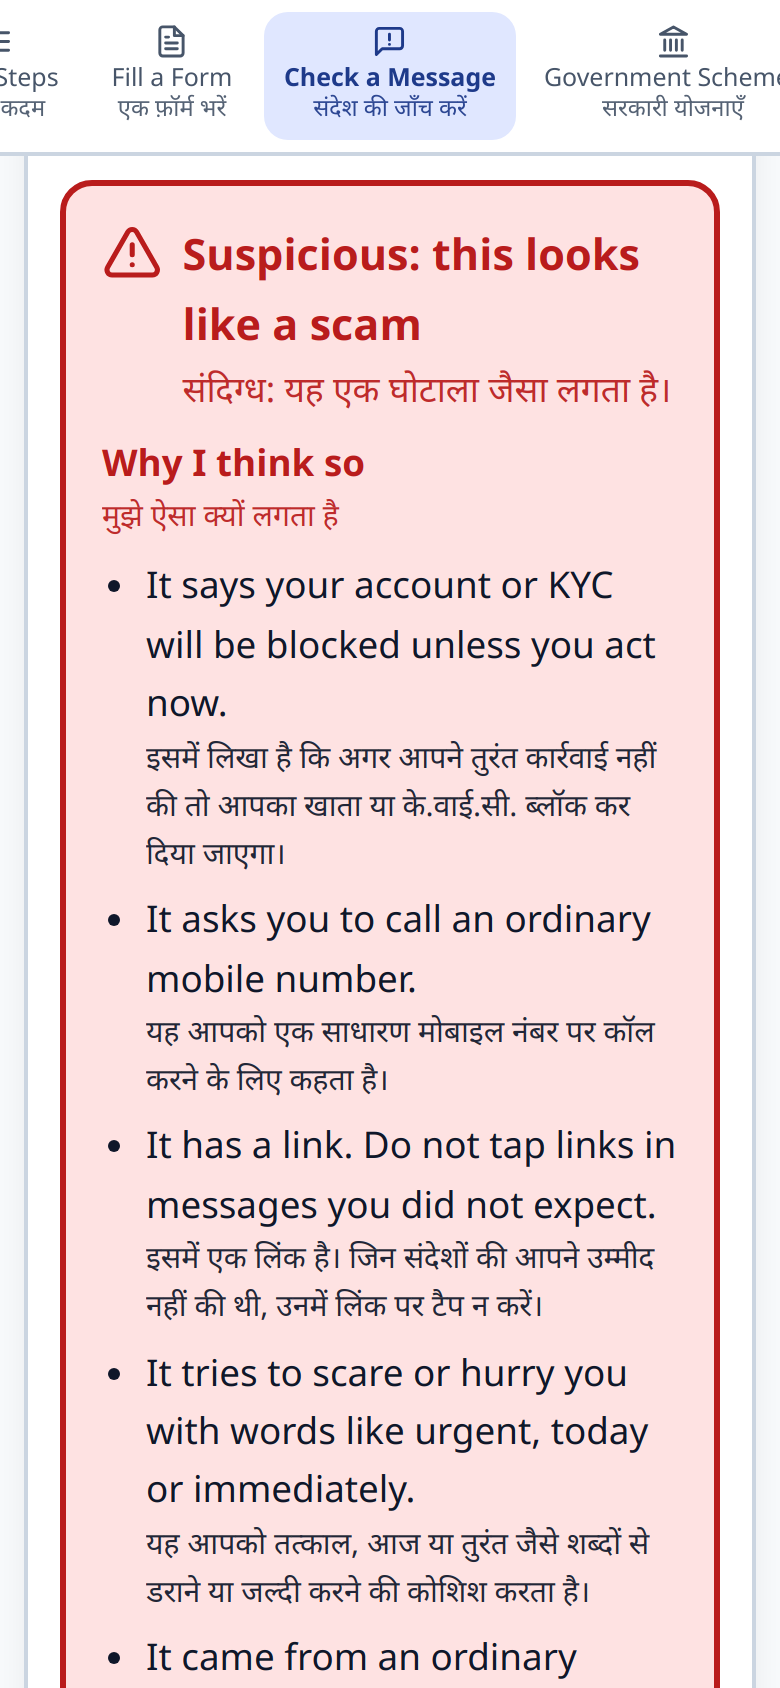
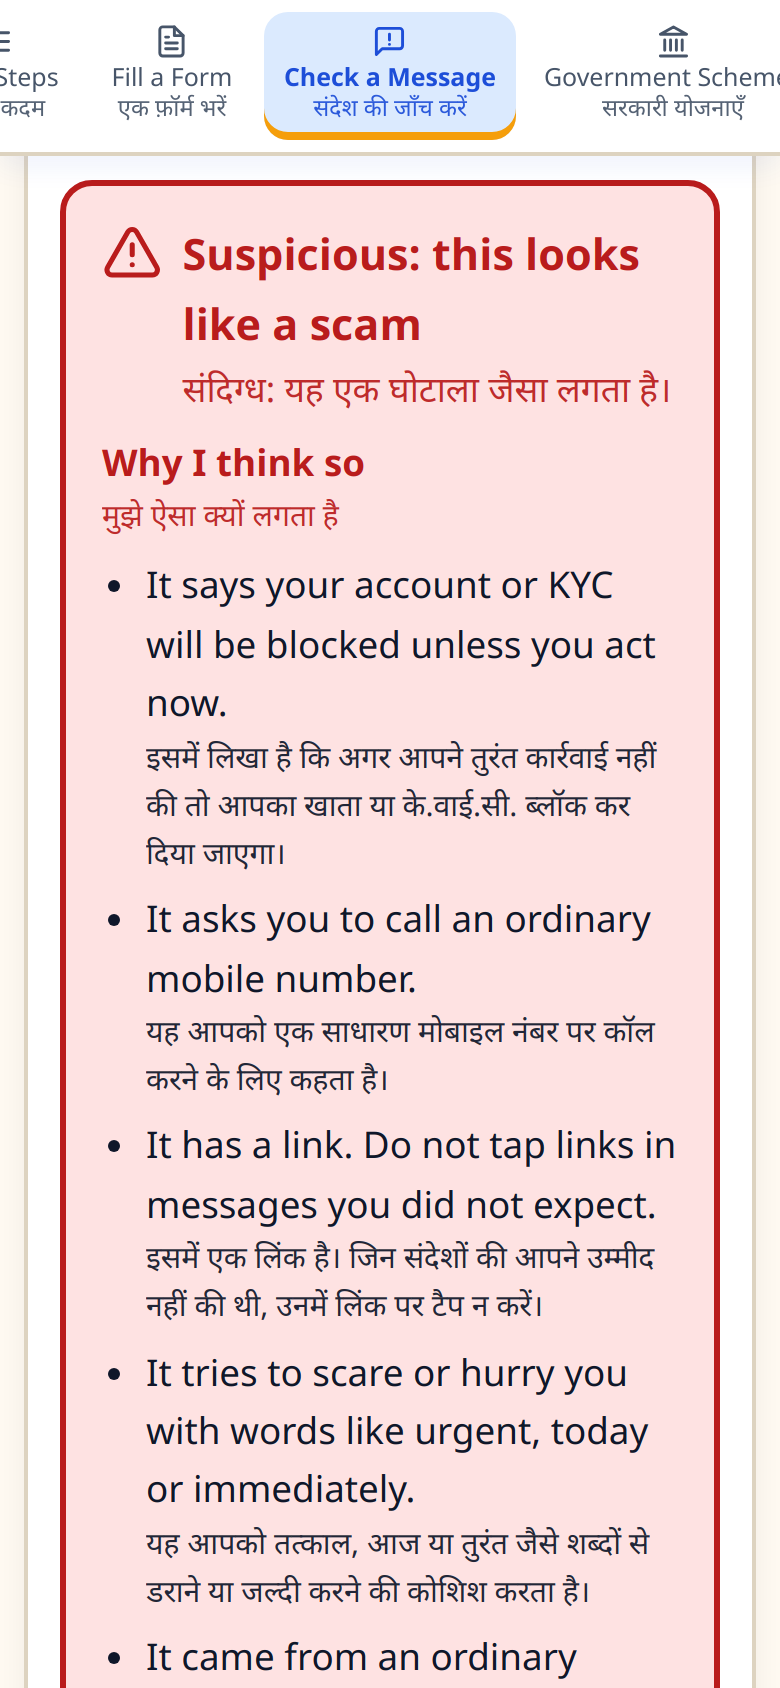
updates

Changed region(s): [[0.9538, 0.0924, 0.9846, 1.0], [0.0308, 0.0924, 0.0615, 1.0], [0.3385, 0.0, 0.6769, 0.0924]]

diff --git a/static/style.css b/static/style.css
@@ -1,7 +1,7 @@
 :root {
-  --bg: #f8fafc; --card: #ffffff; --ink: #0f172a; --muted: #475569; --line: #cbd5e1;
-  --primary: #1e3a8a; --primary-ink: #ffffff; --primary-soft: #e0e7ff;
-  --accent: #a16207; --accent-ink: #ffffff;
+  --bg: #fffaf2; --card: #ffffff; --ink: #0f172a; --muted: #475569; --line: #ddd3c0;
+  --primary: #1d4ed8; --primary-ink: #ffffff; --primary-soft: #dbeafe;
+  --accent: #b45309; --accent-ink: #1c1304; --amber: #f59e0b; --teal: #0d9488; --teal-soft: #ccfbf1;
   --ok: #166534; --ok-soft: #dcfce7; --warn: #92400e; --warn-soft: #fef3c7; --bad: #b91c1c; --bad-soft: #fee2e2;
   --top: #0f172a; --focus: #f59e0b;
   --radius: 16px;
@@ -9,14 +9,14 @@
 @media (prefers-color-scheme: dark) {
   :root {
     --bg: #0b1220; --card: #121c33; --ink: #f1f5f9; --muted: #b6c2d4; --line: #2b3a57;
-    --primary: #2563eb; --primary-soft: #1b2a52; --accent: #b45309;
+    --primary: #3b82f6; --primary-soft: #1b2a52; --accent: #fbbf24; --teal-soft: #0f3b38;
     --ok: #86efac; --ok-soft: #12351f; --warn: #fcd34d; --warn-soft: #3a2a0a; --bad: #fca5a5; --bad-soft: #3b1414;
   }
 }
 * { box-sizing: border-box; }
 html { font-size: 100%; }
 html.big1 { font-size: 112%; } html.big2 { font-size: 125%; }
-body { margin: 0; -webkit-tap-highlight-color: transparent; background: radial-gradient(900px 420px at 0% 0%, rgba(30,58,138,.10), transparent 70%), radial-gradient(800px 380px at 100% 8%, rgba(13,148,136,.10), transparent 70%), var(--bg); background-repeat: no-repeat; color: var(--ink); font: 1.15rem/1.6 "Noto Sans", "Noto Sans Devanagari", "Noto Sans Bengali", "Noto Sans Tamil", "Noto Sans Telugu", system-ui, sans-serif; padding-bottom: 90px; }
+body { margin: 0; -webkit-tap-highlight-color: transparent; background: radial-gradient(900px 420px at 0% 0%, rgba(37,99,235,.14), transparent 70%), radial-gradient(800px 380px at 100% 6%, rgba(245,158,11,.20), transparent 70%), radial-gradient(900px 500px at 50% 100%, rgba(20,184,166,.13), transparent 70%), var(--bg); background-repeat: no-repeat; color: var(--ink); font: 1.15rem/1.6 "Noto Sans", "Noto Sans Devanagari", "Noto Sans Bengali", "Noto Sans Tamil", "Noto Sans Telugu", system-ui, sans-serif; padding-bottom: 90px; }
 button, input, select, textarea { font: inherit; color: inherit; }
 button { cursor: pointer; }
 :focus-visible { outline: 4px solid var(--focus); outline-offset: 2px; }
@@ -28,28 +28,29 @@ svg.i.fill { fill: currentColor; stroke: none; }
 .sr { position: absolute; left: -9999px; }
 
 /* ---------- top bar ---------- */
-.top { background: linear-gradient(135deg, #0f172a 0%, #1e3a8a 55%, #0f766e 100%); color: #fff; padding: 12px 16px 0; padding-top: calc(12px + env(safe-area-inset-top)); }
+.top { background: linear-gradient(120deg, #1d4ed8 0%, #0e7490 55%, #047857 100%); color: #fff; padding: 12px 16px 0; padding-top: calc(12px + env(safe-area-inset-top)); }
+.top::after { content: ""; display: block; height: 6px; margin: 0 -16px; background: linear-gradient(90deg, #f59e0b 0 33.3%, #ffffff 33.3% 66.6%, #16a34a 66.6%); }
 .bar { max-width: 960px; margin: 0 auto; display: flex; align-items: center; gap: 10px; flex-wrap: wrap; }
 .brand { margin: 0; font-size: 1.6rem; line-height: 1.2; flex: 1; min-width: 180px; }
 .brand small { display: block; font-size: .8rem; font-weight: 400; opacity: .8; }
-.top select { min-height: 48px; border-radius: 12px; border: 2px solid #475569; background: #1e293b; color: #fff; padding: 0 10px; max-width: 220px; }
-.sizebtn { min-width: 48px; min-height: 48px; border-radius: 12px; border: 2px solid #475569; background: #1e293b; color: #fff; font-weight: 700; }
-.ticker { max-width: 960px; margin: 10px auto 0; display: flex; align-items: stretch; border-top: 1px solid #334155; }
+.top select { min-height: 48px; border-radius: 12px; border: 2px solid rgba(255,255,255,.55); background: #1e40af; color: #fff; padding: 0 10px; max-width: 220px; }
+.sizebtn { min-width: 48px; min-height: 48px; border-radius: 12px; border: 2px solid rgba(255,255,255,.55); background: #1e40af; color: #fff; font-weight: 700; }
+.ticker { max-width: 960px; margin: 10px auto 0; display: flex; align-items: stretch; border-top: 1px solid rgba(255,255,255,.3); }
 #rev { overflow: hidden; flex: 1; white-space: nowrap; padding: 4px 0; }
 #rev .track { display: inline-flex; animation: scroll 80s linear infinite; will-change: transform; }
 #rev:hover .track, #rev:focus-within .track, .ticker.paused .track { animation-play-state: paused; }
-#rev button { background: none; border: 0; color: #fff; font-size: 1.35rem; padding: 4px 20px; min-height: 48px; border-right: 1px solid #334155; }
+#rev button { background: none; border: 0; color: #fff; font-size: 1.35rem; padding: 4px 20px; min-height: 48px; border-right: 1px solid rgba(255,255,255,.28); }
 #rev button small { font-size: .75rem; opacity: .75; margin-left: 6px; }
-#rev button.cur { color: #fcd34d; }
-.tpause { flex: none; width: 48px; border: 0; border-left: 1px solid #334155; background: transparent; color: #fff; }
+#rev button.cur { color: #fde68a; text-shadow: 0 0 12px rgba(253,230,138,.5); }
+.tpause { flex: none; width: 48px; border: 0; border-left: 1px solid rgba(255,255,255,.28); background: transparent; color: #fff; }
 @keyframes scroll { from { transform: translateX(0); } to { transform: translateX(-50%); } }
 @media (prefers-reduced-motion: reduce) { #rev { overflow-x: auto; } #rev .track { animation: none; } .tpause { display: none; } }
 
 /* ---------- tabs ---------- */
-nav { position: sticky; top: 0; z-index: 5; background: var(--card); border-bottom: 2px solid var(--line); }
+nav { position: sticky; top: 0; z-index: 5; background: var(--card); border-bottom: 2px solid var(--line); box-shadow: 0 4px 14px rgba(29,78,216,.08); }
 #tabs { max-width: 960px; margin: 0 auto; display: flex; overflow-x: auto; padding: 6px 8px; gap: 4px; scrollbar-width: thin; }
 #tabs button { flex: none; display: flex; flex-direction: column; align-items: center; gap: 2px; min-width: 84px; min-height: 64px; padding: 6px 10px; border: 0; border-radius: 12px; background: transparent; color: var(--muted); font-size: .78rem; line-height: 1.2; text-align: center; }
-#tabs button[aria-selected=true] { background: var(--primary-soft); color: var(--primary); font-weight: 700; }
+#tabs button[aria-selected=true] { background: var(--primary-soft); color: var(--primary); font-weight: 700; box-shadow: inset 0 -4px 0 var(--amber); }
 @media (prefers-color-scheme: dark) { #tabs button[aria-selected=true] { color: #bfdbfe; } }
 #tabs .loc { font-size: .95em; }
 
@@ -61,13 +62,14 @@ section.view.on { display: block; animation: fade .25s ease; }
 @media (prefers-reduced-motion: reduce) { section.view.on { animation: none; } }
 .card { box-shadow: 0 4px 18px rgba(15,23,42,.06); background: var(--card); border: 2px solid var(--line); border-radius: var(--radius); padding: 20px; margin-bottom: 16px; }
 h2 { margin: 0 0 6px; font-size: 1.5rem; line-height: 1.3; }
+h2::after { content: ""; display: block; width: 60px; height: 4px; border-radius: 4px; margin-top: 6px; background: linear-gradient(90deg, #2563eb, #14b8a6, #f59e0b); }
 h3 { margin: 0 0 6px; font-size: 1.15rem; }
 .lead { color: var(--muted); margin: 0 0 14px; }
 
 /* ---------- buttons & inputs ---------- */
-.btn { box-shadow: 0 2px 8px rgba(30,58,138,.25); display: inline-flex; align-items: center; justify-content: center; gap: 10px; min-height: 56px; padding: 10px 22px; border-radius: 14px; border: 2px solid transparent; background: linear-gradient(135deg, #1e3a8a, #2563eb); color: var(--primary-ink); font-weight: 600; text-align: left; transition: transform .12s, filter .12s; }
+.btn { box-shadow: 0 3px 10px rgba(37,99,235,.35); display: inline-flex; align-items: center; justify-content: center; gap: 10px; min-height: 56px; padding: 10px 22px; border-radius: 14px; border: 2px solid transparent; background: linear-gradient(135deg, #1d4ed8, #2563eb 60%, #0284c7); color: var(--primary-ink); font-weight: 600; text-align: left; transition: transform .12s, filter .12s; }
 .btn:hover { filter: brightness(1.08); } .btn:active { transform: scale(.98); }
-.btn.alt { background: linear-gradient(135deg, #a16207, #b45309); box-shadow: 0 2px 8px rgba(161,98,7,.3); color: var(--accent-ink); }
+.btn.alt { background: linear-gradient(135deg, #fbbf24, #f59e0b); box-shadow: 0 3px 10px rgba(245,158,11,.45); color: #1c1304; }
 .btn.ghost { background: transparent; box-shadow: none; border-color: var(--primary); color: var(--primary); }
 @media (prefers-color-scheme: dark) { .btn.ghost { color: #bfdbfe; border-color: #3b5aa8; } }
 a.btn { text-decoration: none; }
@@ -79,29 +81,28 @@ a.btn { text-decoration: none; }
 .field { display: flex; gap: 8px; align-items: stretch; }
 textarea, input[type=text] { width: 100%; padding: 12px 14px; border-radius: 12px; border: 2px solid var(--line); background: var(--bg); color: var(--ink); min-height: 56px; }
 textarea { resize: vertical; }
-.mic { flex: none; width: 56px; min-height: 56px; border-radius: 12px; border: 2px solid var(--accent); background: var(--card); color: var(--accent); display: grid; place-items: center; }
+.mic { flex: none; width: 56px; min-height: 56px; border-radius: 12px; border: 2px solid var(--amber); background: var(--card); color: #b45309; display: grid; place-items: center; }
 .mic.rec { background: var(--bad); border-color: var(--bad); color: #fff; animation: pulse 1s infinite; }
 @keyframes pulse { 50% { opacity: .6; } }
 .mic svg { width: 1.5em; height: 1.5em; }
-.mic.big:not(.rec) { width: 76px; min-height: 76px; background: linear-gradient(135deg, #a16207, #b45309); border-color: transparent; color: #fff; box-shadow: 0 4px 14px rgba(161,98,7,.4); }
+.mic.big:not(.rec) { width: 76px; min-height: 76px; background: linear-gradient(135deg, #fbbf24, #f59e0b); border-color: transparent; color: #1c1304; box-shadow: 0 4px 16px rgba(245,158,11,.55); }
 .mic.big svg { width: 2em; height: 2em; }
-.voice { border-color: var(--accent); margin-bottom: 18px; }
+.voice { border-color: var(--amber); background: linear-gradient(135deg, var(--card), var(--warn-soft)); margin-bottom: 18px; }
 .micstate { min-height: 1.5em; font-size: .92rem; color: var(--muted); }
 input[type=file] { display: none; }
 .label { display: block; font-weight: 700; margin: 14px 0 6px; }
 
 /* ---------- home tiles ---------- */
-.hello { font-size: 1.3rem; margin: 0 0 14px; font-weight: 600; background: linear-gradient(90deg, #1e3a8a, #0f766e); -webkit-background-clip: text; background-clip: text; color: transparent; }
+.hello { font-size: 1.3rem; margin: 0 0 14px; font-weight: 600; background: linear-gradient(90deg, #1d4ed8, #0d9488 60%, #b45309); -webkit-background-clip: text; background-clip: text; color: transparent; }
 @media (prefers-color-scheme: dark) { .hello { background: linear-gradient(90deg, #93c5fd, #5eead4); -webkit-background-clip: text; background-clip: text; } }
 .tiles { display: grid; grid-template-columns: repeat(auto-fill, minmax(260px, 1fr)); gap: 14px; }
 .tile { display: flex; gap: 14px; align-items: center; text-align: left; padding: 18px; min-height: 96px; border-radius: var(--radius); border: 2px solid var(--line); background: var(--card); transition: border-color .15s, transform .12s; }
-.tile:hover { border-color: var(--primary); } .tile:active { transform: scale(.98); }
-.tile { --c1: #1e3a8a; --c2: #2563eb; border-top: 5px solid var(--c1); box-shadow: 0 4px 14px rgba(15,23,42,.07); }
-.tile.c-scan { --c1: #1d4ed8; --c2: #38bdf8; } .tile.c-steps { --c1: #0f766e; --c2: #2dd4bf; } .tile.c-form { --c1: #6d28d9; --c2: #a78bfa; }
-.tile.c-sms { --c1: #b91c1c; --c2: #fb923c; } .tile.c-schemes { --c1: #a16207; --c2: #fbbf24; } .tile.c-words { --c1: #4338ca; --c2: #818cf8; }
-.tile.c-safe { --c1: #15803d; --c2: #4ade80; } .tile.c-help { --c1: #475569; --c2: #94a3b8; }
-.tile .ic { flex: none; width: 56px; height: 56px; border-radius: 16px; display: grid; place-items: center; background: linear-gradient(135deg, var(--c1), var(--c2)); color: #fff; }
-
+.tile:hover { border-color: var(--c1, var(--primary)); } .tile:active { transform: scale(.98); }
+.tile { --c1: #1d4ed8; --c2: #38bdf8; --fg: #fff; border-top: 5px solid var(--c1); box-shadow: 0 4px 14px rgba(15,23,42,.07); background: linear-gradient(180deg, color-mix(in srgb, var(--c2) 14%, var(--card)), var(--card) 70%); }
+.tile.c-scan, .tile.c-sms, .tile.c-safe { --c1: #1d4ed8; --c2: #38bdf8; --fg: #fff; }                     /* blue */
+.tile.c-steps, .tile.c-schemes, .tile.c-help { --c1: #0d9488; --c2: #2dd4bf; --fg: #fff; }              /* teal */
+.tile.c-form, .tile.c-words { --c1: #f59e0b; --c2: #fcd34d; --fg: #1c1304; }                              /* saffron amber */
+.tile .ic { flex: none; width: 56px; height: 56px; border-radius: 16px; display: grid; place-items: center; background: linear-gradient(135deg, var(--c1), var(--c2)); color: var(--fg); box-shadow: 0 4px 10px rgba(15,23,42,.15); }
 .tile .ic svg { width: 30px; height: 30px; }
 .tile b { display: block; font-size: 1.1rem; line-height: 1.3; }
 .tile span.d { display: block; font-size: .88rem; color: var(--muted); line-height: 1.35; margin-top: 2px; }
@@ -109,31 +110,33 @@ input[type=file] { display: none; }
 /* ---------- chat ---------- */
 .chat { display: flex; flex-direction: column; gap: 10px; margin: 14px 0; max-height: 55vh; overflow-y: auto; }
 .msg { padding: 12px 16px; border-radius: 16px; max-width: 94%; white-space: pre-wrap; }
-.msg.user { background: linear-gradient(135deg, #1e3a8a, #2563eb); color: #fff; align-self: flex-end; }
+.msg.user { background: linear-gradient(135deg, #1d4ed8, #2563eb 70%, #0284c7); color: #fff; align-self: flex-end; }
 .msg.bot { background: var(--bg); border: 2px solid var(--line); align-self: flex-start; }
 .msg .listen { margin-top: 8px; min-height: 44px; padding: 4px 14px; border-radius: 999px; border: 2px solid var(--primary); background: transparent; color: var(--primary); display: inline-flex; gap: 8px; align-items: center; font-size: .9rem; }
 @media (prefers-color-scheme: dark) { .msg .listen { color: #bfdbfe; border-color: #3b5aa8; } }
 .chips { display: flex; flex-wrap: wrap; gap: 8px; margin: 10px 0; }
 .chip { min-height: 48px; padding: 6px 16px; border-radius: 999px; border: 2px solid var(--line); background: var(--card); color: var(--ink); font-size: .95rem; }
-.chip[aria-pressed=true] { background: linear-gradient(135deg, #1e3a8a, #2563eb); border-color: transparent; color: #fff; }
+.chip:hover { border-color: var(--amber); background: var(--warn-soft); }
+.chip[aria-pressed=true] { background: linear-gradient(135deg, #1d4ed8, #2563eb); border-color: transparent; color: #fff; }
 .thumb { max-width: 100%; max-height: 220px; border-radius: 12px; border: 2px solid var(--line); display: none; margin: 8px 0; }
 .status { margin: 8px 0; color: var(--muted); }
 
 /* ---------- samples ---------- */
 .samples { display: grid; grid-template-columns: repeat(auto-fill, minmax(130px, 1fr)); gap: 10px; margin: 8px 0 14px; }
 .sample { border: 2px solid var(--line); border-radius: 12px; background: var(--card); padding: 6px; text-align: center; font-size: .85rem; line-height: 1.25; }
-.sample:hover { border-color: var(--primary); }
+.sample:hover { border-color: var(--amber); box-shadow: 0 4px 12px rgba(245,158,11,.25); }
 .sample img { width: 100%; height: 96px; object-fit: cover; object-position: top; border-radius: 8px; display: block; margin-bottom: 4px; background: #fff; }
 
 /* ---------- forms guide ---------- */
 .pick { display: grid; grid-template-columns: repeat(auto-fill, minmax(240px, 1fr)); gap: 12px; }
 .pick button { text-align: left; padding: 16px; border-radius: var(--radius); border: 2px solid var(--line); background: var(--card); min-height: 80px; }
-.pick button:hover { border-color: var(--primary); }
+.pick button { border-left: 6px solid var(--teal); }
+.pick button:hover { border-color: var(--amber); }
 .prog { height: 10px; background: var(--line); border-radius: 999px; overflow: hidden; margin: 8px 0 14px; }
-.prog i { display: block; height: 100%; background: linear-gradient(90deg, #1e3a8a, #0d9488); transition: width .3s; }
+.prog i { display: block; height: 100%; background: linear-gradient(90deg, #2563eb, #14b8a6, #f59e0b); transition: width .3s; }
 .stepbox { border: 2px solid var(--primary); border-radius: var(--radius); padding: 18px; background: var(--card); }
 .stepbox .q { font-size: 1.4rem; font-weight: 700; line-height: 1.3; }
-.eg { margin: 8px 0; padding: 8px 12px; border-left: 5px solid var(--accent); background: var(--warn-soft); color: var(--ink); border-radius: 0 10px 10px 0; }
+.eg { margin: 8px 0; padding: 8px 12px; border-left: 5px solid var(--amber); background: var(--warn-soft); color: var(--ink); border-radius: 0 10px 10px 0; }
 .answers { width: 100%; border-collapse: collapse; font-size: 1.15rem; }
 .answers td { padding: 10px 8px; border-bottom: 1px solid var(--line); vertical-align: top; }
 .answers td:first-child { width: 45%; color: var(--muted); }
@@ -143,7 +146,7 @@ input[type=file] { display: none; }
 .verdict h3 { display: flex; gap: 10px; align-items: flex-start; font-size: 1.35rem; margin: 0 0 8px; }
 .verdict.suspicious { background: var(--bad-soft); border-color: var(--bad); color: var(--bad); }
 .verdict.bank { background: var(--ok-soft); border-color: var(--ok); color: var(--ok); }
-.verdict.unsure { background: var(--warn-soft); border-color: var(--accent); color: var(--warn); }
+.verdict.unsure { background: var(--warn-soft); border-color: var(--amber); color: var(--warn); }
 .verdict .body { color: var(--ink); white-space: pre-wrap; }
 .flags { margin: 8px 0; padding-left: 22px; color: var(--ink); }
 .flags li { margin: 6px 0; }
@@ -151,8 +154,8 @@ input[type=file] { display: none; }
 /* ---------- schemes ---------- */
 .scheme { border: 2px solid var(--line); border-radius: var(--radius); background: var(--card); margin-bottom: 12px; overflow: hidden; }
 .scheme > button.head { width: 100%; display: flex; gap: 12px; align-items: center; text-align: left; padding: 16px; border: 0; background: transparent; min-height: 72px; }
-.scheme .tag { font-size: .75rem; padding: 2px 10px; border-radius: 999px; background: var(--primary-soft); color: var(--primary); display: inline-block; font-weight: 600; }
-@media (prefers-color-scheme: dark) { .scheme .tag { color: #bfdbfe; } }
+.scheme .tag { font-size: .75rem; padding: 2px 10px; border-radius: 999px; background: var(--teal-soft); color: #0f766e; display: inline-block; font-weight: 600; }
+@media (prefers-color-scheme: dark) { .scheme .tag { color: #5eead4; } }
 .scheme .nm { font-weight: 700; font-size: 1.1rem; line-height: 1.3; }
 .scheme .chev { margin-left: auto; transition: transform .2s; }
 .scheme.open .chev { transform: rotate(90deg); }
@@ -163,17 +166,17 @@ input[type=file] { display: none; }
 .facts dd { margin: 2px 0 0; }
 
 /* ---------- misc ---------- */
-.tip { border-left: 6px solid var(--accent); padding: 10px 14px; margin: 10px 0; background: var(--warn-soft); border-radius: 0 12px 12px 0; }
+.tip { border-left: 6px solid var(--amber); padding: 10px 14px; margin: 10px 0; background: var(--warn-soft); border-radius: 0 12px 12px 0; }
 .guide { counter-reset: g; display: grid; gap: 12px; padding: 0; list-style: none; }
 .guide li { counter-increment: g; display: flex; gap: 14px; align-items: flex-start; padding: 14px; border: 2px solid var(--line); border-radius: var(--radius); background: var(--card); }
-.guide li::before { content: counter(g); flex: none; width: 40px; height: 40px; border-radius: 50%; background: var(--primary); color: #fff; display: grid; place-items: center; font-weight: 700; }
+.guide li::before { content: counter(g); flex: none; width: 40px; height: 40px; border-radius: 50%; background: linear-gradient(135deg, #2563eb, #14b8a6); color: #fff; display: grid; place-items: center; font-weight: 700; }
 .guide b { display: block; }
 footer { text-align: center; color: var(--muted); font-size: .85rem; padding: 10px 16px 30px; }
 
 /* ---------- audio bar ---------- */
-#audiobar { position: fixed; left: 50%; bottom: calc(14px + env(safe-area-inset-bottom)); transform: translateX(-50%); display: flex; gap: 8px; padding: 8px; background: var(--card); border: 2px solid var(--primary); border-radius: 999px; box-shadow: 0 6px 20px rgba(0,0,0,.3); z-index: 20; }
+#audiobar { position: fixed; left: 50%; bottom: calc(14px + env(safe-area-inset-bottom)); transform: translateX(-50%); display: flex; gap: 8px; padding: 8px; background: var(--card); border: 2px solid var(--teal); border-radius: 999px; box-shadow: 0 6px 20px rgba(0,0,0,.3); z-index: 20; }
 #audiobar[hidden] { display: none; }
-#audiobar button { min-height: 52px; padding: 6px 20px; border-radius: 999px; border: 0; background: var(--primary); color: #fff; display: flex; align-items: center; gap: 8px; line-height: 1.15; font-size: .95rem; }
+#audiobar button { min-height: 52px; padding: 6px 20px; border-radius: 999px; border: 0; background: linear-gradient(135deg, #1d4ed8, #0d9488); color: #fff; display: flex; align-items: center; gap: 8px; line-height: 1.15; font-size: .95rem; }
 #audiobar button.stop { background: var(--bad); }
 @media (max-width: 560px) {
   main { padding: 0 12px; } .card { padding: 16px; }
